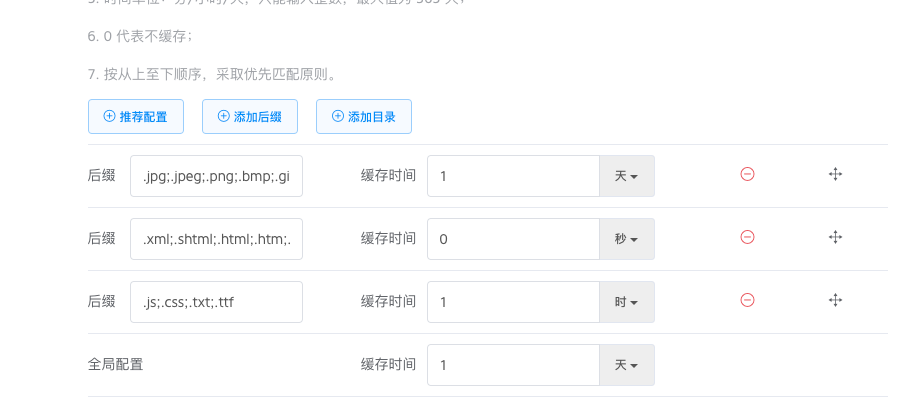
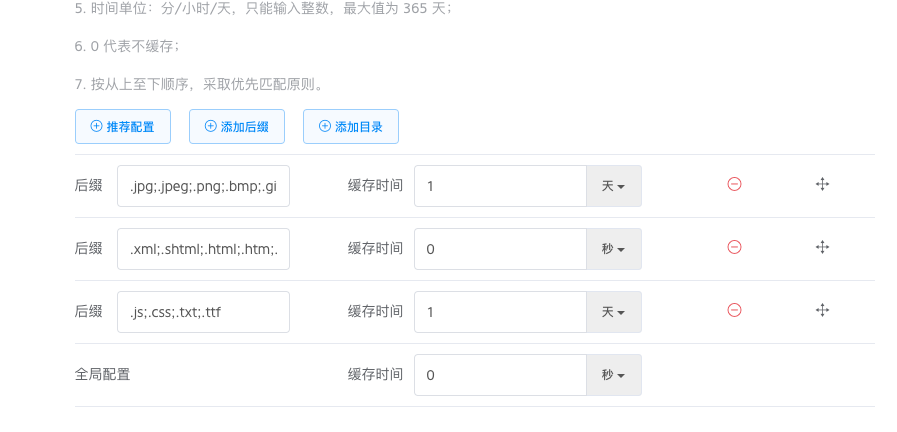
Site updated: 2017-06-20 15:31:35

diff --git a/2017/将博客部署到七牛/index.html b/2017/将博客部署到七牛/index.html
@@ -105,7 +105,7 @@
 <meta property="og:image" content="http://panmax.love/2017/将博客部署到七牛/1.png">
 <meta property="og:image" content="http://panmax.love/2017/将博客部署到七牛/2.png">
 <meta property="og:image" content="http://panmax.love/2017/将博客部署到七牛/4.png">
-<meta property="og:updated_time" content="2017-06-20T06:26:39.000Z">
+<meta property="og:updated_time" content="2017-06-20T07:31:14.000Z">
 <meta name="twitter:card" content="summary">
 <meta name="twitter:title" content="将博客部署到七牛">
 <meta name="twitter:description" content="我觉得我是不折腾就会死的人，现在的博客部署在 Github Pages 上，访问速度一直令我非常不爽，所以准备迁移到七牛。 七牛新建 bucket 后，在空间设置，把默认首页设置改成启动就完成了。 还有一个就是一定要绑定自己的独立域名，否则站内数据改变后，用七牛提供的临时域名来访问的话，缓存一时半会是不会刷新的，独立域名可以设置缓存刷新时间，前提是那个域名需要在国内进行备案。 缓存可以根据不同类型">
@@ -282,7 +282,7 @@
 <hr>
 <h3 id="updateAt-2017-06-20"><a href="#updateAt-2017-06-20" class="headerlink" title="updateAt 2017-06-20"></a>updateAt 2017-06-20</h3><p>我把缓存策略改为了如下所示</p>
 <p><img src="4.png" alt=""></p>
-<p>图片和样式文件进行缓存，<code>html</code> 等文本文件不缓存。</p>
+<p>图片和样式文件进行缓存，<code>html</code> 等文本文件不缓存。因为七牛会自动寻找 <code>index.html</code>，所以在真正访问时，不带 <code>/index.html</code> 后缀的页面也可以打开，所以我把全局配置设为了不缓存，也就是说不在这个配置中的文件也不进行缓存。</p>
 
       
     </div>
